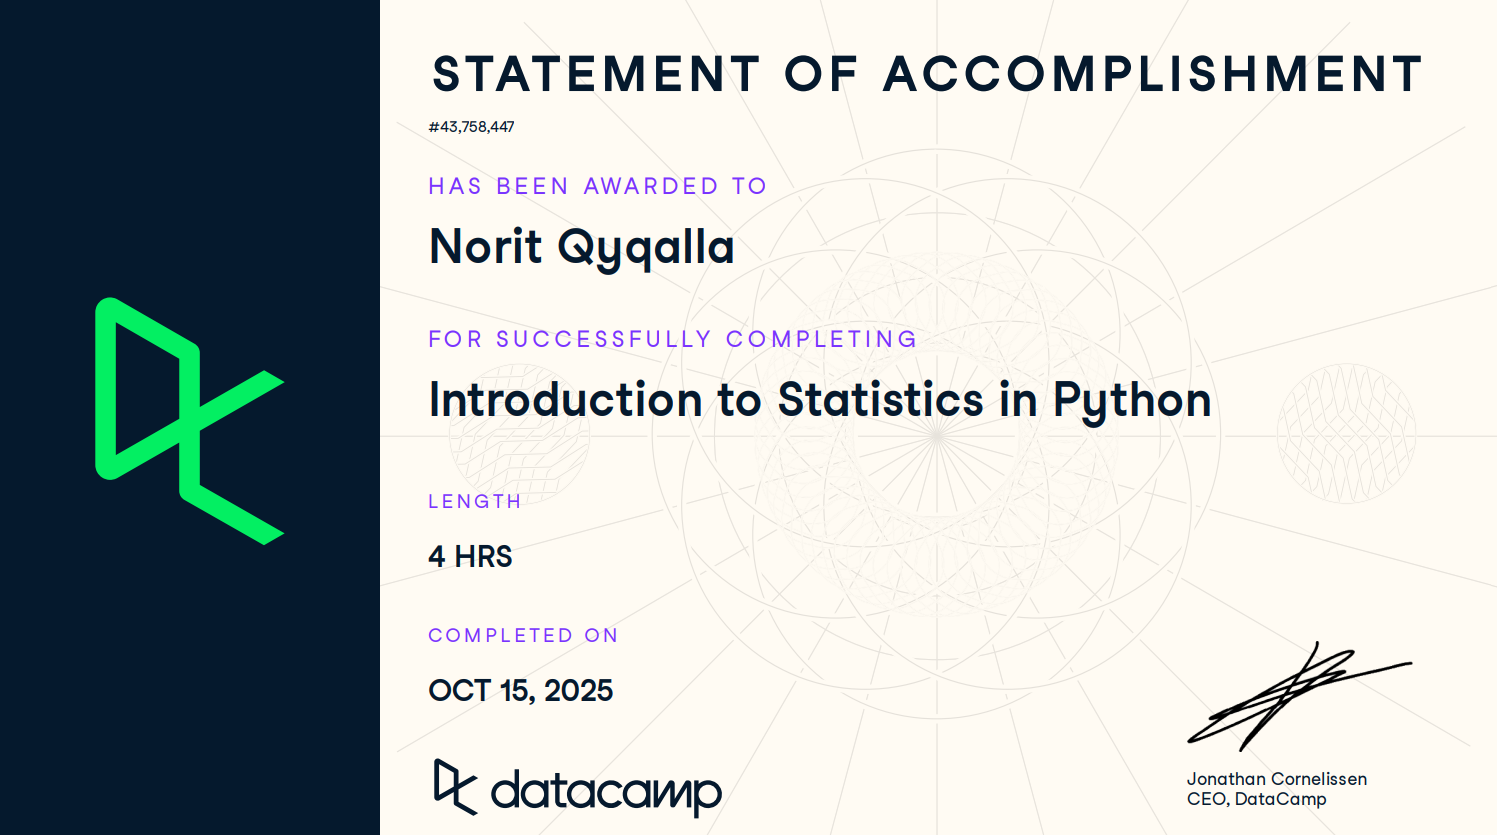
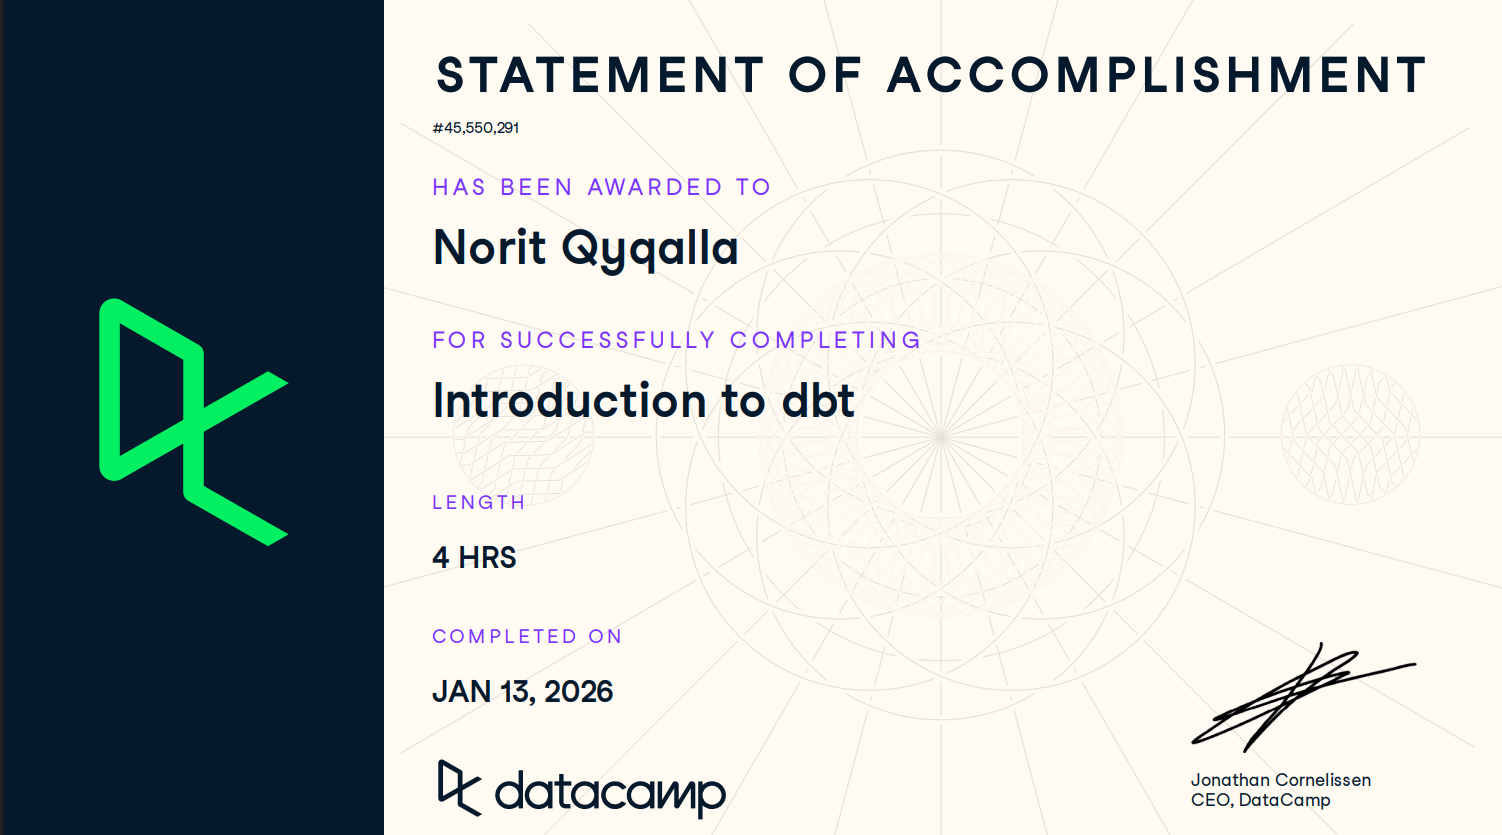
Included more Certificates and some small changes

diff --git a/src/components/CertificatesSection.tsx b/src/components/CertificatesSection.tsx
@@ -28,155 +28,204 @@ const CERTIFICATES: Certificate[] = [
   },
   {
     id: 3,
+    title: 'Debate Club Certificate "Lets Debate Change" Project',
+    issuer: 'SOLIDAR.Suisse/Teach For Kosova',
+    description:
+      'Successfully completed the Debate Club sessions and activities as part of the "Lets Debate Change" project, funded by Solidar Suisse. This program provided structured training in public speaking, critical thinking, and constructive debate within a professional learning environment. Through interactive debates, teamwork, and evidence-based argumentation, I significantly strengthened my communication, presentation, and active listening skills. The experience also enhanced my confidence in expressing ideas clearly, engaging in respectful discussions, and collaborating effectively with diverse groups.',
+    image: '/certificates/3.jpeg',
+  },
+    {
+    id: 4,
+    title: 'Green Summer School 2025: EcoFix',
+    issuer: 'giz/German Cooperation',
+    description:
+      'Participated in the five-day Green Summer School 2025 EcoFix, where I collaborated with participants from across the Balkan region on topics related to environmental sustainability and electronic waste (e-waste) management. The program provided valuable hands-on and collaborative learning experiences, including presenting project ideas, assembling and troubleshooting computer hardware, and exploring practical approaches to reducing and recycling e-waste. Working in multicultural teams strengthened my communication, teamwork, and presentation skills while exposing me to diverse perspectives and innovative solutions for environmental challenges.',
+    image: '/certificates/4.jpeg',
+  },
+  {
+    id: 5,
+    title: 'Soft Skills and Employability Training Certificate',
+    issuer: 'European Union/UNDP',
+    description:
+      'Successfully completed training focused on developing essential soft skills and enhancing employability. The program strengthened my professional communication, teamwork, problem-solving, leadership, and time management abilities while providing practical insights into workplace expectations and career development. Through interactive activities and real-world scenarios, I improved my confidence in interviews, professional networking, and presenting ideas effectively. This training equipped me with the interpersonal and professional competencies needed to collaborate efficiently, adapt to dynamic work environments, and contribute effectively to multidisciplinary teams.',
+    image: '/certificates/5.jpeg',
+  },
+  {
+    id: 6,
+    title: 'Volunteer Trainer "Play Unified" Program, 20 Hours',
+    issuer: 'Olimpiada Speciale Kosovë',
+    description:
+      'Recognized for contributing as a volunteer trainer during the successful implementation of the "Play Unified"  program, which promotes inclusive sports by bringing together individuals with and without intellectual disabilities. Through this experience, I developed strong leadership, communication, and teamwork skills while supporting participants in a positive and inclusive environment. Beyond mentoring, the program also gave me opportunities to strengthen my technical abilities by assisting with digital tools and coding-related tasks used to support program activities and event organization. This experience reinforced the importance of combining technical skills with social impact, demonstrating how technology and collaboration can contribute to more inclusive communities.',
+    image: '/certificates/6.jpeg',
+  },
+
+  {
+    id: 7,
     title: 'Python Data Fundamentals',
     issuer: 'DataCamp',
     description:
       'Covers the foundational concepts of working with data in Python, including data types, structures, basic operations with NumPy and pandas, and introductory data manipulation techniques essential for any data-driven role.',
-    image: '/certificates/3.png',
-  },
-  {
-    id: 4,
-    title: 'Cleaning Data with PySpark',
-    issuer: 'DataCamp',
-    description:
-      'Focuses on cleaning and preparing large-scale datasets using PySpark. Covers handling missing values, casting data types, filtering, deduplication, and applying transformations across distributed DataFrames efficiently.',
-    image: '/certificates/4.png',
-  },
-  {
-    id: 6,
-    title: 'End-to-End Machine Learning',
-    issuer: 'DataCamp',
-    description:
-      'Walks through the complete machine learning pipeline — from data collection, cleaning, and exploratory analysis to feature engineering, model training, evaluation, hyperparameter tuning, and deploying a working ML solution.',
-    image: '/certificates/6.png',
-  },
-  {
-    id: 7,
-    title: 'Exploratory Data Analysis in Python',
-    issuer: 'DataCamp',
-    description:
-      'Teaches systematic approaches to exploring and visualizing datasets using pandas, matplotlib, and seaborn. Emphasizes identifying patterns, detecting outliers, and forming hypotheses before modeling.',
     image: '/certificates/7.png',
   },
   {
     id: 8,
-    title: 'Feature Engineering for Machine Learning in Python',
+    title: 'Cleaning Data with PySpark',
     issuer: 'DataCamp',
     description:
-      'Deep dive into creating and selecting predictive features from raw data. Covers encoding categorical variables, scaling numerical features, generating polynomial and interaction features, and handling time-based data.',
+      'Focuses on cleaning and preparing large-scale datasets using PySpark. Covers handling missing values, casting data types, filtering, deduplication, and applying transformations across distributed DataFrames efficiently.',
     image: '/certificates/8.png',
   },
   {
     id: 9,
-    title: 'Feature Engineering with PySpark',
+    title: 'End-to-End Machine Learning',
     issuer: 'DataCamp',
     description:
-      'Applies feature engineering techniques at scale using PySpark. Covers StringIndexer, OneHotEncoder, VectorAssembler, StandardScaler, and pipeline construction for distributed machine learning workflows.',
+      'Walks through the complete machine learning pipeline — from data collection, cleaning, and exploratory analysis to feature engineering, model training, evaluation, hyperparameter tuning, and deploying a working ML solution.',
     image: '/certificates/9.png',
   },
   {
     id: 10,
-    title: 'Intermediate Python',
+    title: 'Exploratory Data Analysis in Python',
     issuer: 'DataCamp',
     description:
-      'Builds on basic Python knowledge with topics including list comprehensions, lambda functions, error handling, iterators, generators, and object-oriented programming patterns for writing clean, efficient code.',
+      'Teaches systematic approaches to exploring and visualizing datasets using pandas, matplotlib, and seaborn. Emphasizes identifying patterns, detecting outliers, and forming hypotheses before modeling.',
     image: '/certificates/10.png',
   },
   {
     id: 11,
-    title: 'Introduction to Data Visualization with Seaborn',
+    title: 'Feature Engineering for Machine Learning in Python',
     issuer: 'DataCamp',
     description:
-      'Covers creating informative statistical graphics using Seaborn, including distribution plots, relational plots, categorical plots, and customizing aesthetics. Emphasizes communicating insights through visual storytelling.',
+      'Deep dive into creating and selecting predictive features from raw data. Covers encoding categorical variables, scaling numerical features, generating polynomial and interaction features, and handling time-based data.',
     image: '/certificates/11.png',
   },
   {
     id: 12,
-    title: 'Introduction to Databricks SQL',
+    title: 'Feature Engineering with PySpark',
     issuer: 'DataCamp',
     description:
-      'Introduces querying and analyzing data on the Databricks platform using SQL. Covers writing efficient queries, managing databases and tables, using built-in functions, and building dashboards within Databricks SQL.',
+      'Applies feature engineering techniques at scale using PySpark. Covers StringIndexer, OneHotEncoder, VectorAssembler, StandardScaler, and pipeline construction for distributed machine learning workflows.',
     image: '/certificates/12.png',
   },
   {
     id: 13,
-    title: 'Introduction to dbt',
+    title: 'Intermediate Python',
     issuer: 'DataCamp',
     description:
-      'Covers the fundamentals of dbt (data build tool) for transforming data in modern analytics workflows. Includes writing models, managing dependencies, testing data quality, generating documentation, and deploying data pipelines.',
+      'Builds on basic Python knowledge with topics including list comprehensions, lambda functions, error handling, iterators, generators, and object-oriented programming patterns for writing clean, efficient code.',
     image: '/certificates/13.png',
   },
   {
     id: 14,
-    title: 'Introduction to PySpark',
+    title: 'Introduction to Data Visualization with Seaborn',
     issuer: 'DataCamp',
     description:
-      'Introduces distributed data processing with PySpark. Covers the Spark architecture, Resilient Distributed Datasets (RDDs), DataFrames, basic transformations, actions, and SQL queries on large-scale data.',
+      'Covers creating informative statistical graphics using Seaborn, including distribution plots, relational plots, categorical plots, and customizing aesthetics. Emphasizes communicating insights through visual storytelling.',
     image: '/certificates/14.png',
   },
   {
     id: 15,
-    title: 'Introduction to Python',
+    title: 'Introduction to Databricks SQL',
     issuer: 'DataCamp',
     description:
-      'A beginner-friendly introduction to Python programming. Covers variables, data types, lists, dictionaries, loops, conditional statements, functions, and basic scripting — laying the groundwork for data science and automation.',
+      'Introduces querying and analyzing data on the Databricks platform using SQL. Covers writing efficient queries, managing databases and tables, using built-in functions, and building dashboards within Databricks SQL.',
     image: '/certificates/15.png',
   },
   {
     id: 16,
-    title: 'Introduction to Statistics in Python',
+    title: 'Introduction to dbt',
     issuer: 'DataCamp',
     description:
-      'Covers core statistical concepts and their implementation in Python. Topics include descriptive statistics, probability distributions, sampling methods, hypothesis testing, confidence intervals, and correlation analysis.',
+      'Covers the fundamentals of dbt (data build tool) for transforming data in modern analytics workflows. Includes writing models, managing dependencies, testing data quality, generating documentation, and deploying data pipelines.',
     image: '/certificates/16.png',
   },
   {
     id: 17,
-    title: 'Joining Data with pandas',
+    title: 'Introduction to PySpark',
     issuer: 'DataCamp',
     description:
-      'Focuses on combining multiple datasets using pandas merge, join, and concatenation operations. Covers inner, outer, left, and right joins, handling duplicate keys, multi-index joins, and merging on indexes.',
+      'Introduces distributed data processing with PySpark. Covers the Spark architecture, Resilient Distributed Datasets (RDDs), DataFrames, basic transformations, actions, and SQL queries on large-scale data.',
     image: '/certificates/17.png',
   },
   {
     id: 18,
-    title: 'Introduction to Machine Learning with PySpark',
+    title: 'Introduction to Python',
     issuer: 'DataCamp',
     description:
-      'Introduces building machine learning models at scale with PySpark MLlib. Covers classification, regression, clustering, and recommendation systems using Spark\'s distributed ML pipeline API on large datasets.',
+      'A beginner-friendly introduction to Python programming. Covers variables, data types, lists, dictionaries, loops, conditional statements, functions, and basic scripting — laying the groundwork for data science and automation.',
     image: '/certificates/18.png',
   },
   {
     id: 19,
-    title: 'Preprocessing for Machine Learning in Python',
+    title: 'Introduction to Statistics in Python',
     issuer: 'DataCamp',
     description:
-      'Covers essential data preprocessing steps before modeling: handling missing data, encoding categorical features, scaling and normalization, train-test splitting, and building reusable preprocessing pipelines with scikit-learn.',
+      'Covers core statistical concepts and their implementation in Python. Topics include descriptive statistics, probability distributions, sampling methods, hypothesis testing, confidence intervals, and correlation analysis.',
     image: '/certificates/19.png',
   },
   {
     id: 20,
-    title: 'Supervised Learning with scikit-learn',
+    title: 'Joining Data with pandas',
     issuer: 'DataCamp',
     description:
-      'Comprehensive coverage of supervised machine learning using scikit-learn. Includes linear and logistic regression, decision trees, support vector machines, ensemble methods, model evaluation metrics, and cross-validation techniques.',
+      'Focuses on combining multiple datasets using pandas merge, join, and concatenation operations. Covers inner, outer, left, and right joins, handling duplicate keys, multi-index joins, and merging on indexes.',
     image: '/certificates/20.png',
   },
   {
     id: 21,
-    title: 'Understanding Machine Learning',
+    title: 'Introduction to Machine Learning with PySpark',
     issuer: 'DataCamp',
     description:
-      'A conceptual introduction to machine learning covering the distinction between supervised, unsupervised, and reinforcement learning. Explains core concepts like overfitting, bias-variance tradeoff, and the ML workflow without heavy math.',
+      'Introduces building machine learning models at scale with PySpark MLlib. Covers classification, regression, clustering, and recommendation systems using Spark\'s distributed ML pipeline API on large datasets.',
     image: '/certificates/21.png',
   },
   {
     id: 22,
+    title: 'Preprocessing for Machine Learning in Python',
+    issuer: 'DataCamp',
+    description:
+      'Covers essential data preprocessing steps before modeling: handling missing data, encoding categorical features, scaling and normalization, train-test splitting, and building reusable preprocessing pipelines with scikit-learn.',
+    image: '/certificates/22.png',
+  },
+  {
+    id: 23,
+    title: 'Supervised Learning with scikit-learn',
+    issuer: 'DataCamp',
+    description:
+      'Comprehensive coverage of supervised machine learning using scikit-learn. Includes linear and logistic regression, decision trees, support vector machines, ensemble methods, model evaluation metrics, and cross-validation techniques.',
+    image: '/certificates/23.png',
+  },
+  {
+    id: 24,
+    title: 'Understanding Machine Learning',
+    issuer: 'DataCamp',
+    description:
+      'A conceptual introduction to machine learning covering the distinction between supervised, unsupervised, and reinforcement learning. Explains core concepts like overfitting, bias-variance tradeoff, and the ML workflow without heavy math.',
+    image: '/certificates/24.png',
+  },
+  {
+    id: 25,
     title: 'Unsupervised Learning in Python',
     issuer: 'DataCamp',
     description:
       'Explores unsupervised machine learning techniques including k-means and hierarchical clustering, principal component analysis (PCA) for dimensionality reduction, and t-SNE for visualizing high-dimensional data in Python.',
-    image: '/certificates/22.png',
+    image: '/certificates/25.png',
+  },
+  {
+    id: 26,
+    title: 'Gratitude for success achieved in FOOTBALL',
+    issuer: 'Fushë-Kosova Municipality',
+    description:
+      'Honored by the municipality of Fushë-Kosova in recognition of my dedication, achievements, and contributions in football. Competing in a team-oriented environment taught me the value of discipline, collaboration, and responsibility. Football showed me that success is built through trust, communication, and supporting teammates toward a common goal. These lessons directly influence my approach to software development, where I enjoy collaborating with developers, sharing knowledge, and contributing to projects that require strong teamwork to achieve successful outcomes.',
+    image: '/certificates/26.jpeg',
+  },
+  {
+    id: 27,
+    title: 'Gratitude for the contribution given in the club',
+    issuer: 'SH.F. "Kosovari"',
+    description:
+      'Recognized by my football club for more than a decade of loyalty, dedication, and contribution to the team (2010-2022). This long-term commitment reflects my belief in giving my best to every team I am part of. Whether on the football field or in software development, I value commitment, consistency, and helping others succeed. I bring the same mindset to coding by actively supporting teammates, sharing solutions, and working collaboratively to overcome challenges and deliver high-quality results. I believe that collective success is always more meaningful than individual achievement.',
+    image: '/certificates/27.jpeg',
   },
 ]
 

diff --git a/src/constants/index.ts b/src/constants/index.ts
@@ -97,7 +97,7 @@ export const PROJECTS = [
   {
     name: 'smartBINS',
     tagline: 'Monitor waste levels in bins and optimize collection routes',
-    description: 'By creating an application that uses IoT sensors to monitor waste levels in bins and optimize collection routes, improving urban sanitation efficiency',
+    description: 'By creating an application that uses IoT sensors to monitor waste levels in bins and optimize collection routes, improving urban sanitation efficiency.',
     language: 'HTML/CSS/JS',
     languageColor: '#c86830',
     stars: 0,

diff --git a/src/components/NavDots.tsx b/src/components/NavDots.tsx
@@ -1,7 +1,7 @@
 import { FC, useEffect, useState } from 'react'
 
 export const NavDots: FC = () => {
-  const sections = ['hero', 'stats', 'about', 'skills', 'projects', 'education', 'contact']
+  const sections = ['hero', 'about', 'skills', 'projects', 'education', 'contact']
   const [active, setActive] = useState('hero')
 
   useEffect(() => {

diff --git a/src/styles/global.css b/src/styles/global.css
@@ -206,7 +206,7 @@ body::after {
   height: 120px;
   border-radius: 50%;
   padding: 3px;
-  background: conic-gradient(var(--green), var(--cyan), var(--pink), var(--green));
+  background: conic-gradient(var(--cyan), #00e5ff, #00b8d4, var(--cyan));
   position: relative;
 }
 
